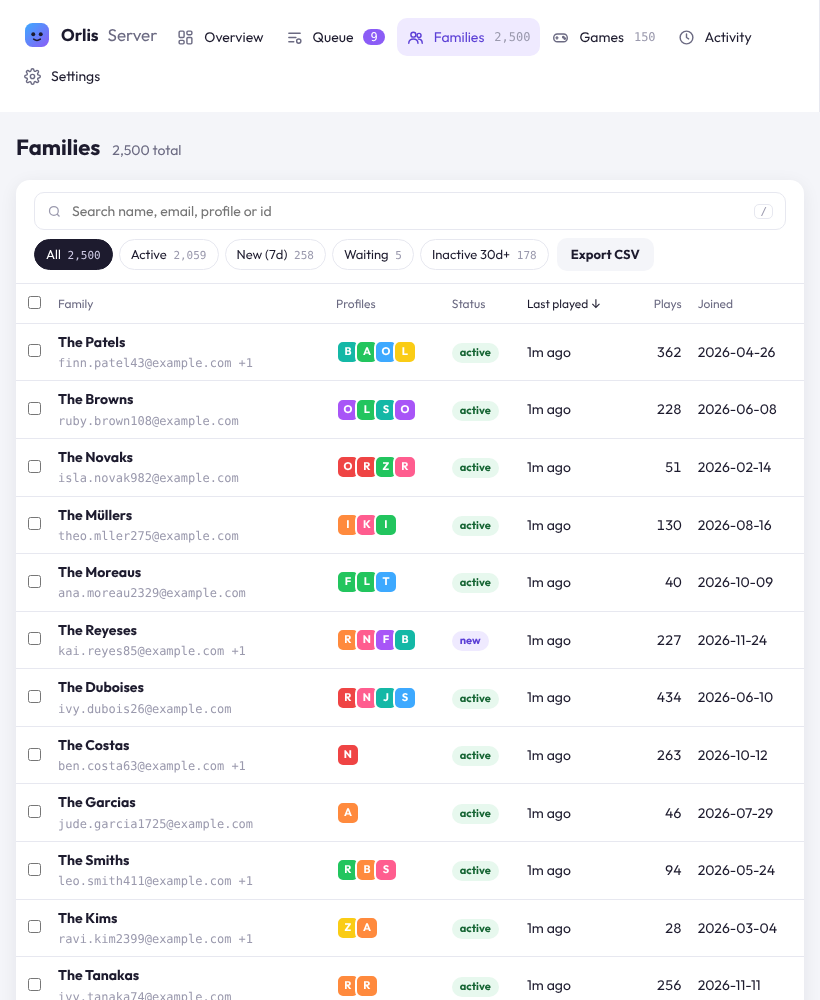
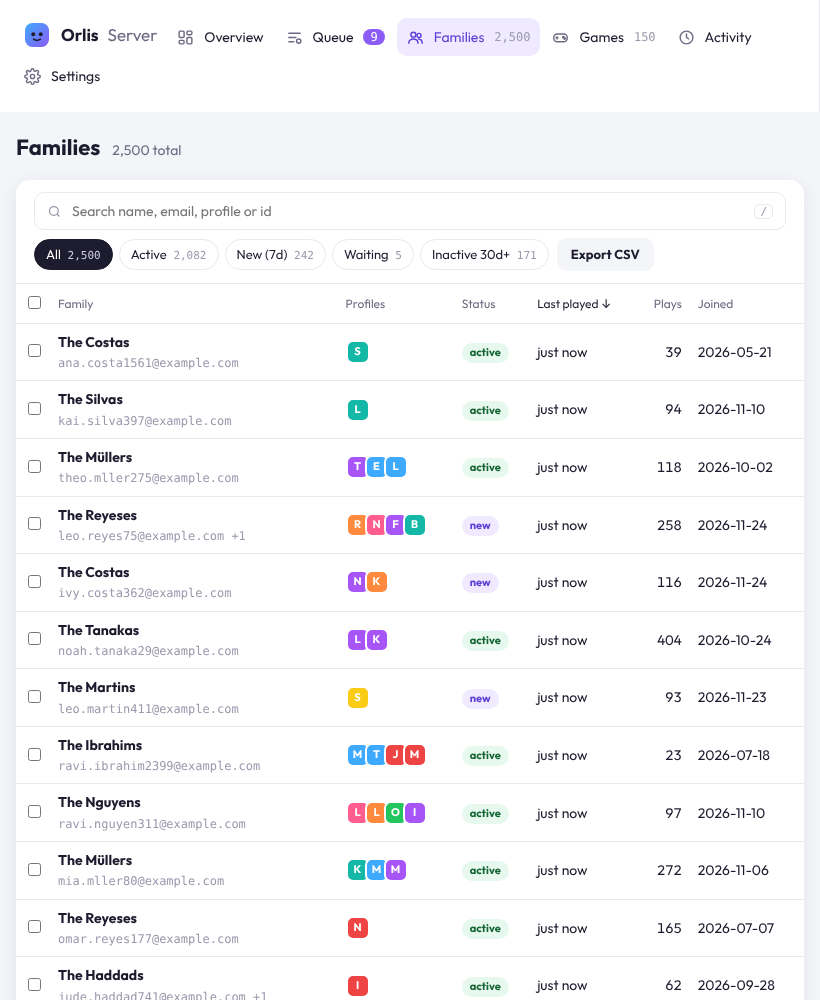
Management page: game slots are Create's (3 per family, games made), not per-account request slots
Made column, CSV, panel and sort use COUNT(creations) of LIMITS.slots; per-account slots -/+ and bulk slots removed from the page (route and column stay).

Claude-Session: https://claude.ai/code/session_01H7pxTnxTukKeeYRVqvmnkU

diff --git a/server/src/manage-page.js b/server/src/manage-page.js
@@ -163,8 +163,6 @@ td.cb, th.cb{ width:34px; padding-right:0 }
 .seg{ display:inline-flex; padding:2px; border-radius:999px; background:var(--paper) }
 .seg button{ border:0; background:transparent; font-size:12px; font-weight:600; padding:3px 11px; border-radius:999px; cursor:pointer; color:var(--soft) }
 .seg button.on{ background:var(--surface); color:var(--ink); box-shadow:0 1px 4px rgba(20,24,50,.12) }
-.slots{ display:inline-flex; align-items:center; gap:6px; font-size:13px; color:var(--soft) }
-.slots button{ border:1px solid var(--line); background:var(--surface); border-radius:8px; width:26px; height:26px; cursor:pointer }
 .pw{ display:flex; gap:6px; flex-wrap:wrap }
 .pw input, .form input{ flex:1 1 150px; min-width:0; border:1px solid var(--line); border-radius:10px; padding:6px 10px; background:var(--surface) }
 .cover{ width:44px; height:26px; border-radius:6px; vertical-align:middle; margin-right:8px; display:inline-block; background-size:cover; background-position:center }
@@ -231,7 +229,7 @@ const BODY = String.raw`
       <span class="chips" id="fchips"></span>
       <button class="btn ghost" id="fcsv">Export CSV</button>
     </div>
-    <div class="bulk" id="fbulk"><b id="nsel">0</b> selected<button class="btn ghost" data-act="bulk-pw">New passwords</button><button class="btn ghost" data-act="bulk-slots" data-by="-1">Slots &minus;</button><button class="btn ghost" data-act="bulk-slots" data-by="1">Slots +</button><button class="btn ghost" data-act="bulk-clear">Clear</button></div>
+    <div class="bulk" id="fbulk"><b id="nsel">0</b> selected<button class="btn ghost" data-act="bulk-pw">New passwords</button><button class="btn ghost" data-act="bulk-clear">Clear</button></div>
     <div id="fbulkmsg"></div>
     <div class="scroll"><table><thead><tr id="fhead"></tr></thead><tbody id="fbody"></tbody></table></div>
     <div class="pager" id="fpager"></div>
@@ -466,13 +464,13 @@ const SCRIPT = String.raw`
   var FSTAT = [['all', 'All'], ['active', 'Active'], ['new', 'New (7d)'], ['waiting', 'Waiting'], ['inactive', 'Inactive 30d+']];
   var fam = Table({ key: 'f', path: '/api/admin/families', sort: ['last', 'desc'], select: true, none: 'No families yet.',
     chips: FSTAT, id: function(x){ return x.id; },
-    cols: [{ k: 'name', l: 'Family', sort: 1 }, { k: 'ppl', l: 'Profiles' }, { k: 'status', l: 'Status', sort: 1 }, { k: 'last', l: 'Last played', sort: 1 }, { k: 'plays', l: 'Plays', num: 1, sort: 1 }, { k: 'made', l: 'Made' }, { k: 'joined', l: 'Joined', sort: 1 }],
+    cols: [{ k: 'name', l: 'Family', sort: 1 }, { k: 'ppl', l: 'Profiles' }, { k: 'status', l: 'Status', sort: 1 }, { k: 'last', l: 'Last played', sort: 1 }, { k: 'plays', l: 'Plays', num: 1, sort: 1 }, { k: 'made', l: 'Made', num: 1, sort: 1 }, { k: 'joined', l: 'Joined', sort: 1 }],
     row: function(f){
       var shown = f.profiles.slice(0, 6).map(face).join('') + (f.profiles.length > 6 ? '<i>+' + (f.profiles.length - 6) + '</i>' : '');
       var owner = f.accounts.some(function(a){ return a.role === 'owner'; });
       return T('<td><b>{name}</b>{!you}<br><span class="id">{email}{more}</span></td><td><span class="faces">{!faces}</span></td><td>{!st}</td><td>{!last}</td><td class="num">{plays}</td><td class="num">{made}</td><td>{joined}</td>',
         { name: f.name, you: owner ? ' <span class="tag">you</span>' : '', email: f.emails[0] || '', more: f.emails.length > 1 ? ' +' + (f.emails.length - 1) : '', faces: shown, st: tag(f.status),
-          last: f.last ? esc(ago(f.last)) : '<span class="sub">never</span>', plays: fmt(f.plays), made: f.slots ? f.made + '/' + f.slots : '–', joined: dateOf(f.joined) });
+          last: f.last ? esc(ago(f.last)) : '<span class="sub">never</span>', plays: fmt(f.plays), made: f.made + '/' + f.slots, joined: dateOf(f.joined) });
     },
     open: function(f){ openFamily(f.id); },
     after: function(r){ $('fcount').textContent = fmt(r.counts.all) + (famSearching() ? ' match' : ' total'); }
@@ -487,10 +485,9 @@ const SCRIPT = String.raw`
 
   function acctRow(a){
     var isOwner = a.role === 'owner';
-    return T('<div class="acct" data-acct="{id}"><div><span class="em">{email}</span> {!st}</div><div class="acts">{!role}{!slots}<button class="btn ghost sm" data-act="pw-open" data-id="{id}">New password</button></div><div class="pw" data-pw="{id}" hidden><input type="text" placeholder="8+ characters" minlength="8" aria-label="New password for {email}" autocomplete="off"><button class="btn sm" data-act="pw-set" data-id="{id}">Set</button><button class="btn ghost sm" data-act="pw-rand" data-id="{id}">Random</button></div></div>',
+    return T('<div class="acct" data-acct="{id}"><div><span class="em">{email}</span> {!st}</div><div class="acts">{!role}<button class="btn ghost sm" data-act="pw-open" data-id="{id}">New password</button></div><div class="pw" data-pw="{id}" hidden><input type="text" placeholder="8+ characters" minlength="8" aria-label="New password for {email}" autocomplete="off"><button class="btn sm" data-act="pw-set" data-id="{id}">Set</button><button class="btn ghost sm" data-act="pw-rand" data-id="{id}">Random</button></div></div>',
       { id: a.id, email: a.email, st: isOwner ? '<span class="tag new">owner</span>' : a.waiting ? tag('waiting') : '',
-        role: isOwner ? '' : '<span class="seg" data-role="' + esc(a.id) + '"><button data-act="role" data-id="' + esc(a.id) + '" data-role="player"' + (a.role === 'player' ? ' class="on"' : '') + '>Player</button><button data-act="role" data-id="' + esc(a.id) + '" data-role="creator"' + (a.role === 'creator' ? ' class="on"' : '') + '>Creator</button></span>',
-        slots: isOwner ? '' : '<span class="slots"><button data-act="slots" data-id="' + esc(a.id) + '" data-by="-1" aria-label="One fewer slot">−</button><span data-n="' + esc(a.id) + '">' + a.slots + '</span> slots<button data-act="slots" data-id="' + esc(a.id) + '" data-by="1" aria-label="One more slot">+</button></span>' });
+        role: isOwner ? '' : '<span class="seg" data-role="' + esc(a.id) + '"><button data-act="role" data-id="' + esc(a.id) + '" data-role="player"' + (a.role === 'player' ? ' class="on"' : '') + '>Player</button><button data-act="role" data-id="' + esc(a.id) + '" data-role="creator"' + (a.role === 'creator' ? ' class="on"' : '') + '>Creator</button></span>' });
   }
   function openFamily(id){
     P = { kind: 'f', id: id };
@@ -643,7 +640,7 @@ const SCRIPT = String.raw`
         set('Data folder', code(s.dataDir)) + '</div>' +
       '<div class="card"><h2>Joining</h2>' +
         set('Mode', code(s.joining.mode) + '<br><small class="sub">' + (s.joining.approveJoins ? 'Emails on the allowlist are straight in; anyone else asks, and waits in the Queue.' : 'Emails on the allowlist are straight in; everyone else needs an invite code.') + (s.joining.awayJoins ? ' People on Tailscale join freely.' : '') + '</small>') +
-        set('Default game slots', code(s.defaultSlots), '<span class="sub">per grown-up; change one in a family’s panel</span>') + '</div>' +
+        set('Game slots', code(s.defaultSlots), '<span class="sub">per family, for games made in Create (fixed)</span>') + '</div>' +
       '<div class="card"><h2>Heads-ups</h2>' + smtp + set('Email me on', code(s.heads.join(', ')), '<span class="sub">by the clock; and by email when SMTP is set up</span>') + '<div id="mailmsg"></div></div>' +
       '<div class="card"><h2>Backups</h2>' +
         set('Schedule', code('daily, at a quiet moment'), '<button class="btn ghost" data-act="backup-now">Back up now</button>', '<span class="sub" style="grid-column:2 / 4">Also before each update and each restore. Keeps ' + Object.keys(s.backups.keep).map(function(k){ return s.backups.keep[k] + ' ' + (KINDS[k] || k).toLowerCase(); }).join(', ') + '.</span>') +
@@ -687,10 +684,6 @@ const SCRIPT = String.raw`
         [].forEach.call(b.parentNode.children, function(x){ x.classList.toggle('on', x === b); }); var a = acctOf(b.dataset.id); if (a) a.role = b.dataset.role; toast('Now a ' + b.dataset.role + '.');
       });
     },
-    slots: function(b){
-      var a = acctOf(b.dataset.id), n = a ? a.slots + Number(b.dataset.by) : 0; if (n < 0 || n > 99) return;
-      return api('POST', '/api/accounts/' + enc(b.dataset.id) + '/slots', { slots: n }).then(function(r){ a.slots = r.slots; document.querySelector('[data-n="' + b.dataset.id + '"]').textContent = r.slots; fam.load(); });
-    },
     'pw-open': function(b){ var box = document.querySelector('[data-pw="' + b.dataset.id + '"]'); box.hidden = !box.hidden; if (!box.hidden) box.firstChild.focus(); },
     'pw-rand': function(b){ document.querySelector('[data-pw="' + b.dataset.id + '"] input').value = randomPassword(); },
     'pw-set': function(b){
@@ -699,13 +692,6 @@ const SCRIPT = String.raw`
       return setPassword(a, input.value).then(function(){ toast('Password set for ' + a.email + ': ' + input.value + ' (every device signed in as them needs it)'); input.value = ''; });
     },
     'bulk-clear': function(){ fam.S.sel = {}; fam.load(); $('fbulkmsg').innerHTML = ''; },
-    'bulk-slots': function(b){
-      var by = Number(b.dataset.by), todo = [];
-      Object.keys(fam.S.sel).forEach(function(k){ fam.S.sel[k].accounts.forEach(function(a){ if (a.role !== 'owner' && a.slots + by >= 0 && a.slots + by <= 99) todo.push([a, a.slots + by]); }); });
-      if (!todo.length){ toast('Nothing to change.'); return; }
-      return todo.reduce(function(p, x){ return p.then(function(){ return api('POST', '/api/accounts/' + enc(x[0].id) + '/slots', { slots: x[1] }).then(function(r){ x[0].slots = r.slots; }); }); }, Promise.resolve())
-        .then(function(){ toast('Slots ' + (by > 0 ? '+1' : '−1') + ' for ' + todo.length + ' grown-up' + (todo.length === 1 ? '' : 's') + '.'); fam.load(); });
-    },
     'bulk-pw': function(b){
       var todo = [];
       Object.keys(fam.S.sel).forEach(function(k){ fam.S.sel[k].accounts.forEach(function(a){ if (a.role !== 'owner') todo.push(a); }); });

diff --git a/server/src/admin.js b/server/src/admin.js
@@ -20,11 +20,13 @@ import { Fail, Raw, stats } from './http.js';
 import { AVATARS } from './api.js';
 import { BUILT_IN } from './weekly.js';
 import { KEEP } from './backup.js';
+import { LIMITS as CREATE } from './creations.js';
 
-export const DEFAULT_SLOTS = 3;
+/* game slots: the games a family can keep that it made in Create - 3 each, fixed (creations.js) */
+export const DEFAULT_SLOTS = CREATE.slots;
 const DAY = 864e5;
 export const PER = { default: 25, max: 100 };
-export const FAMILY_SORTS = { name: 'name COLLATE NOCASE', status: 'status', last: 'last', plays: 'plays', joined: 'joined' };
+export const FAMILY_SORTS = { name: 'name COLLATE NOCASE', status: 'status', last: 'last', plays: 'plays', made: 'made', joined: 'joined' };
 export const GAME_SORTS = ['title', 'cat', 'maker', 'status', 'plays', 'fams', 'feat'];
 export const FAMILY_STATUS = ['active', 'new', 'waiting', 'inactive'];
 export const GAME_STATUS = ['live', 'featured', 'review', 'hidden'];
@@ -88,7 +90,8 @@ export function admin({ db, info, dataDir, shop, week, log, mail, mailState = { 
     const d7 = new Date(t() - 7 * DAY).toISOString(), d30 = new Date(t() - 30 * DAY).toISOString();
     const text = search ? like(search) : null;
     const rows = q(`SELECT h.id, h.name, h.created_at AS joined, (SELECT COUNT(*) FROM plays WHERE household_id = h.id) AS plays, (SELECT MAX(at) FROM plays WHERE household_id = h.id) AS last,
-        (SELECT COUNT(*) FROM accounts WHERE household_id = h.id AND pending = 1) AS waiting
+        (SELECT COUNT(*) FROM accounts WHERE household_id = h.id AND pending = 1) AS waiting,
+        (SELECT COUNT(*) FROM creations WHERE household_id = h.id) AS made
       FROM households h
       WHERE EXISTS (SELECT 1 FROM accounts a WHERE a.household_id = h.id)
         AND (:q IS NULL OR h.name LIKE :q ESCAPE '\\' OR h.id LIKE :q ESCAPE '\\'
@@ -128,16 +131,12 @@ export function admin({ db, info, dataDir, shop, week, log, mail, mailState = { 
     /* a page's families by id; all of them (the CSV) by the whole tables - either way grouped here, not searched for one by one */
     const some = base.length <= 100, ids = base.map(r => r.id), marks = ids.map(() => '?').join(','), where = some ? `WHERE a.household_id IN (${marks})` : '', args = some ? ids : [];
     const group = (rows) => { const m = new Map(); for (const r of rows){ if (!m.has(r.h)) m.set(r.h, []); m.get(r.h).push(r); } return m; };
-    const accounts = group(q(`SELECT a.id, a.email, a.role, a.slots, a.pending, a.created_at AS createdAt, a.household_id AS h FROM accounts a ${where} ORDER BY a.created_at, a.rowid`).all(...args));
+    const accounts = group(q(`SELECT a.id, a.email, a.role, a.pending, a.created_at AS createdAt, a.household_id AS h FROM accounts a ${where} ORDER BY a.created_at, a.rowid`).all(...args));
     const profiles = group(q(`SELECT f.id, f.name, f.avatar, f.look, a.household_id AS h FROM profiles f JOIN accounts a ON a.id = f.account_id ${where} ORDER BY f.created_at, f.rowid`).all(...args));
-    const made = new Map(q(`SELECT a.household_id AS h, COUNT(*) AS n FROM requests r LEFT JOIN submissions s ON s.id = r.submission_id JOIN accounts a ON a.id = r.account_id
-      WHERE r.kind = 'new' AND (r.status IN ('waiting', 'making') OR (r.status = 'made' AND (s.status IS NULL OR s.status != 'declined'))) ${some ? `AND a.household_id IN (${marks})` : ''} GROUP BY a.household_id`).all(...args).map(m => [m.h, m.n]));
     return base.map(r => {
-      const acc = (accounts.get(r.id) || []).map(a => ({ id: a.id, email: a.email, role: a.role, slots: a.slots, waiting: !!a.pending, createdAt: a.createdAt }));
+      const acc = (accounts.get(r.id) || []).map(a => ({ id: a.id, email: a.email, role: a.role, waiting: !!a.pending, createdAt: a.createdAt }));
       return { id: r.id, name: r.name, status: r.status, last: r.last || null, plays: r.plays, joined: r.joined, accounts: acc, emails: acc.map(a => a.email),
-        profiles: (profiles.get(r.id) || []).map(faceOf), made: made.get(r.id) || 0,
-        /* (the owner's own aren't counted: slots are for the families who ask for games) */
-        slots: acc.filter(a => a.role !== 'owner').reduce((n, a) => n + a.slots, 0) };
+        profiles: (profiles.get(r.id) || []).map(faceOf), made: r.made, slots: CREATE.slots };
     });
   }
   const lookOf = (v) => { try { return v ? JSON.parse(v) : null; } catch { return null; } };
@@ -330,7 +329,7 @@ export function admin({ db, info, dataDir, shop, week, log, mail, mailState = { 
       ['GET', '/api/admin/families/:id', ({ headers, ip, params }) => {
         owner(headers, ip);
         const one = q(`SELECT h.id, h.name, h.created_at AS joined, (SELECT COUNT(*) FROM plays WHERE household_id = h.id) AS plays, (SELECT MAX(at) FROM plays WHERE household_id = h.id) AS last,
-            (SELECT COUNT(*) FROM accounts WHERE household_id = h.id AND pending = 1) AS waiting FROM households h WHERE h.id = ? AND EXISTS (SELECT 1 FROM accounts a WHERE a.household_id = h.id)`).get(params.id);
+            (SELECT COUNT(*) FROM accounts WHERE household_id = h.id AND pending = 1) AS waiting, (SELECT COUNT(*) FROM creations WHERE household_id = h.id) AS made FROM households h WHERE h.id = ? AND EXISTS (SELECT 1 FROM accounts a WHERE a.household_id = h.id)`).get(params.id);
         if (!one) throw new Fail(404, 'no_family', 'No such family.');
         one.status = statusOf(one, new Date(t() - 7 * DAY).toISOString(), new Date(t() - 30 * DAY).toISOString());
         const [row] = familyDetail([one]);
